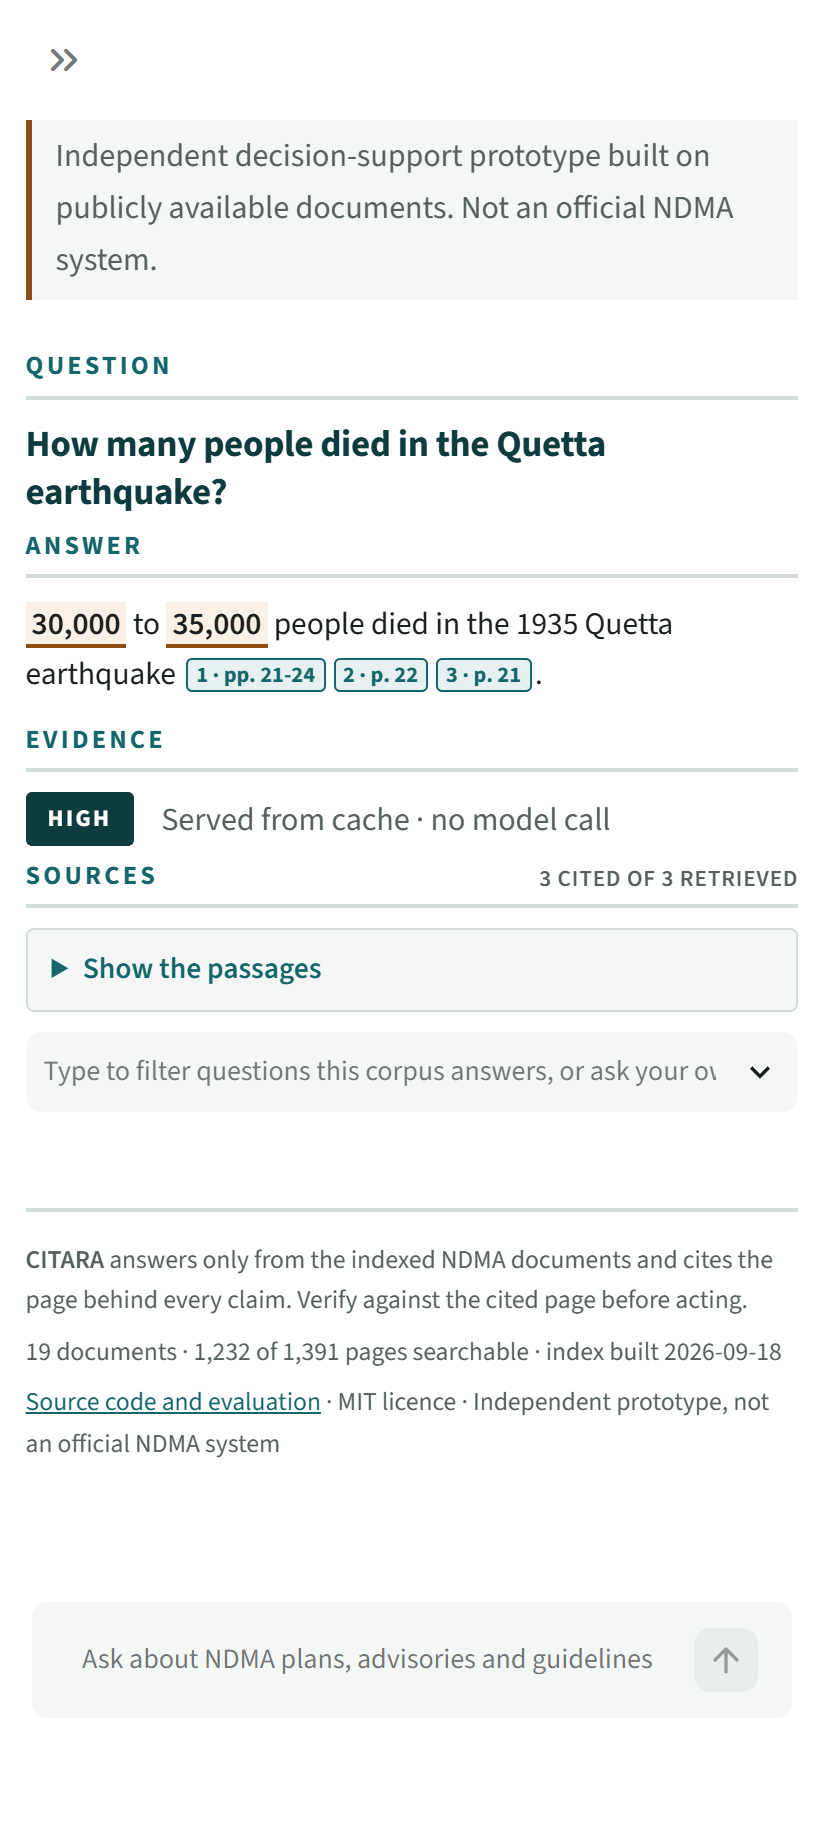
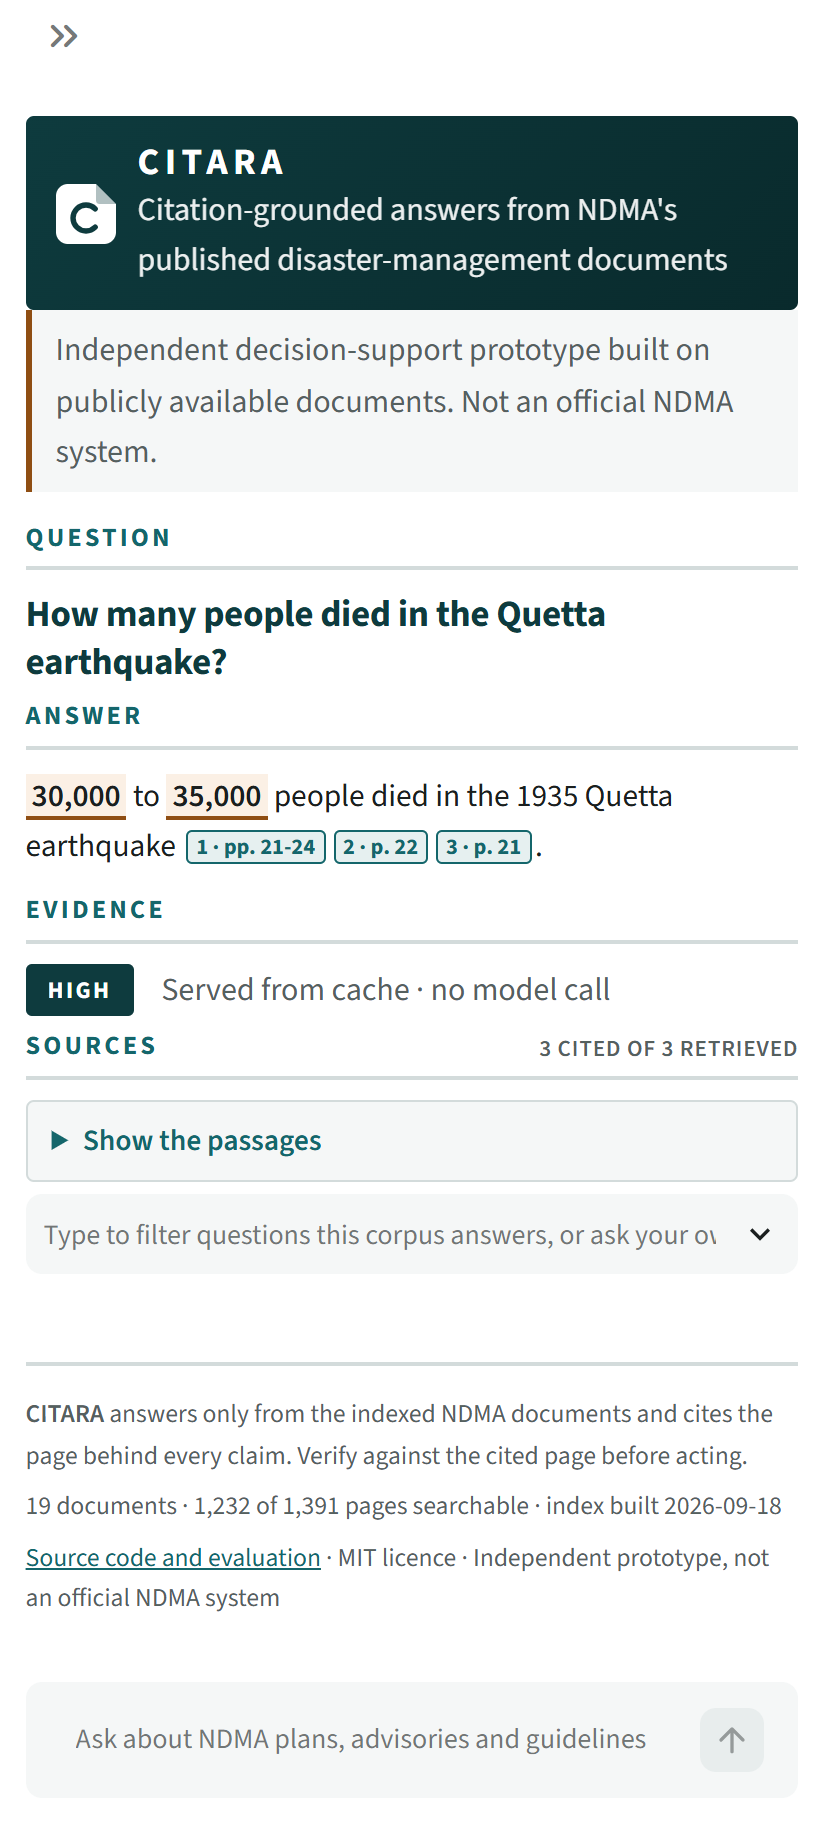
Fill the window: a sidebar mark you can see, and no empty margins
The page floated in a 1080px column with a band of nothing on either side, and
Streamlit's own furniture added more: a 60px toolbar strip above the brand bar,
a composer indented 80px inside the column it belongs to, and 56px of blank page
beneath it. At 1366x768 that made the app 905px tall, and Streamlit scrolls a
page that overflows to its end - so it opened below its own masthead.

The column now spans the window, capped only where a line of text stops being
comfortable to read, and every band in it - brand bar, rules, footer, composer -
starts and ends on the same two edges. The opening view fits a 768px-tall laptop
exactly, and the main container is held at the top until the first answer, which
is where the reader is meant to be taken instead. Held by an observer rather than
a list of timeouts, because the page can take half a minute to appear while the
models load.

The sidebar keeps one width and opens with the mark at 64px above the name, with
its headings a size up, so the panel reads as the app's rather than as Streamlit's
default furniture.

Captions came out of this AA-clean as well: Streamlit dims them with opacity on
top of colour, compositing to 2.66:1 on white. axe-core reports zero violations
across the opening view, a cited answer, the sources panel open, and a refusal on
a phone.

Changed region(s): [[0.0303, 0.0, 0.9709, 0.9656], [0.8799, 0.9344, 0.9102, 0.9656]]

diff --git a/src/citara/ui/styles.py b/src/citara/ui/styles.py
@@ -33,16 +33,35 @@ MUTED = "#55605F"
 RED = "#8F1D21"
 RED_TINT = "#FBEDED"
 
-# The centred layout left half the screen empty on a laptop; the page is wide now, with the
-# column capped where a line of text stops being comfortable to read.
-CONTENT_WIDTH = "1080px"
+# The page fills the window rather than floating in the middle of it. Only the measure of
+# running text is capped, at the width where a line stops being comfortable to read, and the
+# panels around it - brand bar, rules, source list - span the full column.
+CONTENT_WIDTH = "1680px"
+READING_WIDTH = "98ch"
+SIDEBAR_WIDTH = "312px"
 
 CSS = f"""
 <style>
 [data-testid="stMainBlockContainer"] {{
-  padding-top: 2.2rem; padding-bottom: 4rem;
-  max-width: {CONTENT_WIDTH}; margin: 0 auto;
+  padding: 0.9rem 2.5rem 1.2rem; max-width: {CONTENT_WIDTH}; margin: 0 auto;
 }}
+/* Streamlit reserves a 60px strip for its toolbar even when the toolbar is empty, and
+   holds it there with a min-height that a height alone does not beat. Shortened, so the
+   brand bar starts at the top of the page rather than a thumb's width below it. */
+[data-testid="stHeader"] {{
+  height: 2.2rem; min-height: 2.2rem; background: transparent;
+}}
+/* The composer lives in Streamlit's own bottom container, which indents itself 80px on
+   each side and leaves 56px of nothing underneath: the box floats narrower than the column
+   it belongs to, above a band of empty page. Padded to match the column instead, so the
+   two line up and the opening view fits a 768px-tall laptop without scrolling - which is
+   what keeps the brand bar on screen, since Streamlit scrolls a taller page to its end. */
+[data-testid="stBottomBlockContainer"] {{
+  padding: 0.55rem 2.5rem 1rem; max-width: {CONTENT_WIDTH}; margin: 0 auto;
+}}
+/* Streamlit spaces every element 1rem apart; over a dozen stacked rows that is a screenful. */
+[data-testid="stMainBlockContainer"] [data-testid="stVerticalBlock"] {{ gap: 0.75rem; }}
+.answer-body, .citara-intro, .citara-notice p {{ max-width: {READING_WIDTH}; }}
 html, body, [data-testid="stAppViewContainer"] {{ color: {INK}; }}
 
 /* Leftovers from the previous run fade out entirely rather than sitting at a third opacity
@@ -66,7 +85,7 @@ html, body, [data-testid="stAppViewContainer"] {{ color: {INK}; }}
 .citara-header {{
   display: flex; align-items: center; gap: 14px;
   background: linear-gradient(135deg, {TEAL} 0%, {TEAL_DEEP} 100%);
-  color: #FFFFFF; padding: 18px 22px 17px; border-radius: 4px;
+  color: #FFFFFF; padding: 15px 22px 14px; border-radius: 4px;
 }}
 .brand-mark {{ display: flex; }}
 .brand-text {{ display: flex; flex-direction: column; }}
@@ -78,9 +97,9 @@ html, body, [data-testid="stAppViewContainer"] {{ color: {INK}; }}
 .brand-sub {{ font-size: 0.88rem; opacity: 0.92; margin: 4px 0 0; }}
 .citara-disclaimer {{
   font-size: 0.78rem; color: {MUTED}; background: {PALE};
-  border-left: 3px solid {COPPER}; padding: 8px 12px; margin: 10px 0 18px;
+  border-left: 3px solid {COPPER}; padding: 7px 12px; margin: 8px 0 12px;
 }}
-.citara-intro {{ font-size: 0.98rem; color: {INK}; margin: 2px 0 14px; }}
+.citara-intro {{ font-size: 0.98rem; color: {INK}; margin: 2px 0 8px; }}
 .citara-scope {{ font-size: 0.82rem; color: {MUTED}; margin: 0 0 8px; }}
 .citara-searching {{ font-size: 0.95rem; color: {MUTED}; font-style: italic; }}
 
@@ -196,19 +215,30 @@ mark.figure {{
 .citara-footer a {{ color: {TEAL_MID}; }}
 
 /* -- sidebar ----------------------------------------------------------------------------- */
+/* Held at one width rather than Streamlit's resizable default, so the mark and the
+   headings below it have a column to sit in. */
+[data-testid="stSidebar"],
+[data-testid="stSidebar"] > div {{ width: {SIDEBAR_WIDTH} !important; }}
 [data-testid="stSidebar"] {{ background: {PALE}; border-right: 1px solid {BORDER}; }}
 .sidebar-brand {{
-  display: flex; align-items: center; gap: 10px; padding: 2px 0 10px;
-  border-bottom: 2px solid {BORDER}; margin-bottom: 4px;
+  display: flex; flex-direction: column; align-items: center; gap: 10px;
+  padding: 6px 0 16px; border-bottom: 2px solid {TEAL}; margin-bottom: 6px; text-align: center;
 }}
 .sidebar-brand-name {{
-  font-size: 1.12rem; font-weight: 700; letter-spacing: 0.16em; color: {TEAL};
+  font-size: 1.6rem; font-weight: 700; letter-spacing: 0.26em; color: {TEAL};
+  text-indent: 0.26em;
 }}
 [data-testid="stSidebar"] .section-label {{
-  font-size: 0.92rem; letter-spacing: 0.1em; color: {TEAL}; border-bottom-color: {TEAL_MID};
-  margin: 24px 0 10px;
+  font-size: 1.02rem; letter-spacing: 0.1em; color: {TEAL}; border-bottom-color: {TEAL_MID};
+  margin: 26px 0 12px; padding-bottom: 6px;
 }}
-[data-testid="stSidebar"] label {{ font-size: 0.88rem; }}
+[data-testid="stSidebar"] label {{ font-size: 0.92rem; }}
+/* Streamlit dims captions with opacity as well as colour, which composites to #99A09F on
+   white - 2.66:1, which axe-core reports and AA does not allow. The palette's muted ink
+   says the same thing at full strength and 6.5:1. */
+[data-testid="stCaptionContainer"],
+[data-testid="stCaptionContainer"] p {{ color: {MUTED}; opacity: 1; }}
+[data-testid="stSidebar"] [data-testid="stCaptionContainer"] p {{ font-size: 0.86rem; }}
 .corpus-summary {{
   cursor: pointer; font-size: 0.84rem; font-weight: 600; color: {TEAL_MID};
   padding: 7px 10px; border: 1px solid {BORDER}; border-radius: 4px; background: #FFFFFF;
@@ -227,6 +257,7 @@ mark.figure {{
 /* Starter questions read as a list, so they align left; sidebar buttons stay centred. */
 [data-testid="stMainBlockContainer"] .stButton button {{
   justify-content: flex-start; text-align: left; white-space: normal;
+  min-height: 0; padding-top: 0.42rem; padding-bottom: 0.42rem;
 }}
 [data-testid="stMainBlockContainer"] .stButton button > div {{
   justify-content: flex-start; width: 100%;
@@ -234,11 +265,15 @@ mark.figure {{
 [data-testid="stMainBlockContainer"] .stButton button p {{ text-align: left; }}
 
 @media (max-width: 640px) {{
-  /* The top bar holding the sidebar toggle overlays the page on a phone; less clearance
-     than this hid the brand bar and its title underneath it. */
+  /* The top bar holding the sidebar toggle overlays the page on a phone, so the brand bar
+     keeps clear of it - but only just, now that the bar itself is 2.2rem rather than 60px. */
   [data-testid="stMainBlockContainer"] {{
-    padding-left: 0.8rem; padding-right: 0.8rem; padding-top: 3.8rem;
+    padding-left: 0.8rem; padding-right: 0.8rem; padding-top: 1.4rem;
   }}
+  [data-testid="stBottomBlockContainer"] {{
+    padding-left: 0.8rem; padding-right: 0.8rem;
+  }}
+  .sidebar-brand-name {{ font-size: 1.35rem; }}
   .citara-header {{ padding: 13px 14px 12px; gap: 10px; }}
   [data-testid="stMarkdownContainer"] .citara-header .brand-name,
   .citara-header .brand-name {{ font-size: 1.16rem; letter-spacing: 0.15em; }}

diff --git a/src/citara/ui/app.py b/src/citara/ui/app.py
@@ -58,6 +58,30 @@ _LANDMARKS = """<script>
     if (sidebar && !sidebar.getAttribute('aria-label')) {
       sidebar.setAttribute('aria-label', 'Filters, session and corpus');
     }
+    pinTop();
+  };
+  // Streamlit scrolls a page that overflows to its end, which opens the app below its own
+  // masthead. The opening view has nothing below to scroll to, so it is held at the top -
+  // watched rather than retried, because the page can take half a minute to appear while the
+  // models load, by which time any list of timeouts has run out. The pinning ends for good at
+  // the first answer, which the reader is meant to be taken to, or the moment the reader
+  // scrolls the page themselves.
+  const pinTop = () => {
+    const main = doc.querySelector('section.stMain, [data-testid="stMain"]');
+    if (!main || win.__citaraFreeScroll) return;
+    if (doc.querySelector('article.turn')) {
+      win.__citaraFreeScroll = true;
+      return;
+    }
+    main.scrollTop = 0;
+    if (!main.dataset.citaraPinned) {
+      main.dataset.citaraPinned = '1';
+      ['wheel', 'touchstart', 'keydown'].forEach((event) => {
+        main.addEventListener(event, () => { win.__citaraFreeScroll = true; },
+                              { passive: true, once: true });
+      });
+      new win.MutationObserver(pinTop).observe(main, { childList: true, subtree: true });
+    }
   };
   // Retried rather than observed: this component is torn down and rebuilt on every rerun,
   // which takes any MutationObserver with it, and the main container is not always in the
@@ -457,7 +481,7 @@ def _sidebar(
 ) -> None:
     state = st.session_state
     with st.sidebar:
-        st.markdown(logo.wordmark(), unsafe_allow_html=True)
+        st.markdown(logo.wordmark(size=64), unsafe_allow_html=True)
         _label("Search within")
         labels = {d.doc_id: d.label for d in corpus.searchable}
         st.multiselect(

diff --git a/tests/test_ui_app.py b/tests/test_ui_app.py
@@ -110,8 +110,12 @@ def app(fake: FakeAnswerer, monkeypatch: pytest.MonkeyPatch) -> AppTest:
     return AppTest.from_file(APP, default_timeout=60)
 
 
+def markdown_blocks(at: AppTest) -> list[str]:
+    return [str(element.value) for element in at.markdown]
+
+
 def all_markdown(at: AppTest) -> str:
-    return "\n".join(str(element.value) for element in at.markdown)
+    return "\n".join(markdown_blocks(at))
 
 
 def ask(at: AppTest, question: str) -> AppTest:
@@ -173,7 +177,10 @@ def test_the_refusal_is_stated_plainly(app: AppTest) -> None:
     rendered = all_markdown(app)
     assert "No supporting evidence in the indexed documents" in rendered
     assert "no model called" in rendered
-    assert "cite-chip" not in rendered.split("citara-notice")[1]
+    # The turn itself, not the whole page: the stylesheet names these classes too.
+    turn = next(block for block in markdown_blocks(app) if "<article" in block)
+    assert 'class="citara-notice' in turn
+    assert "cite-chip" not in turn
 
 
 def test_the_final_answer_replaces_what_was_streamed(app: AppTest, fake: FakeAnswerer) -> None:
